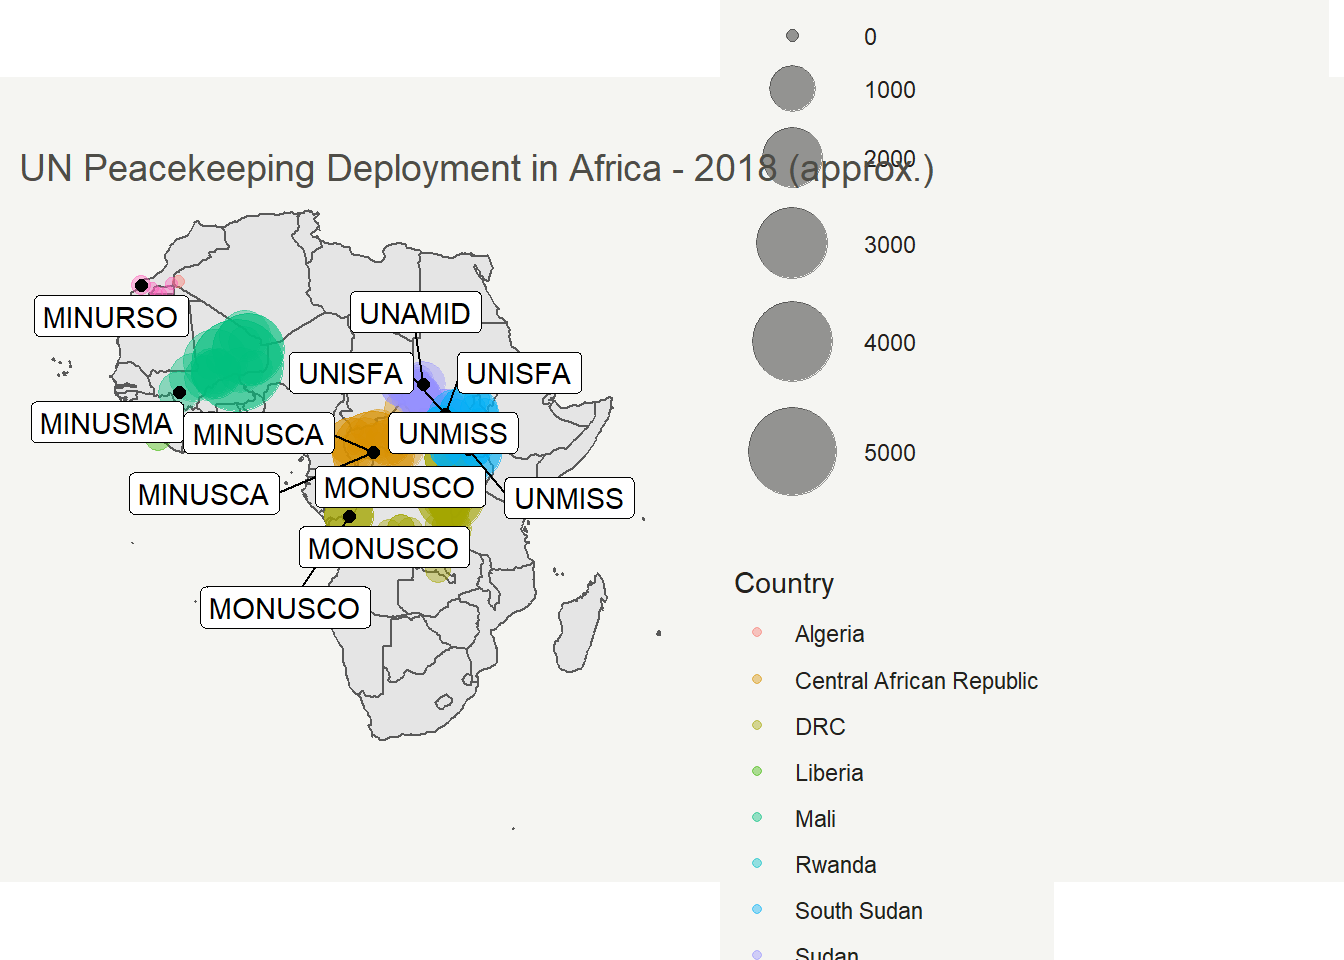
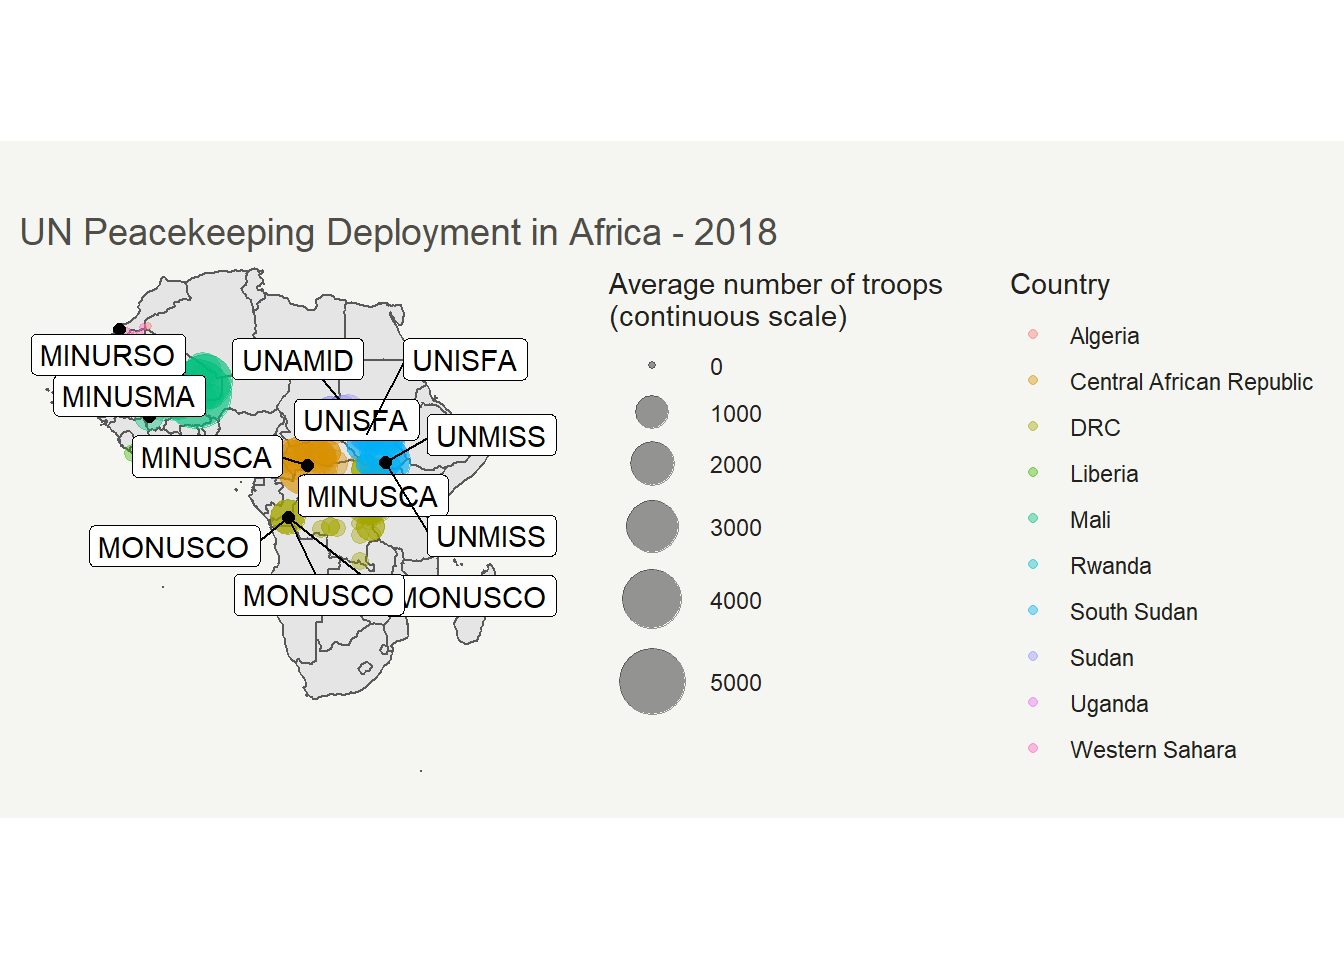
Build site.

diff --git a/docs/index.html b/docs/index.html
@@ -416,16 +416,16 @@ This reproducible <a href="http://rmarkdown.rstudio.com">R Markdown</a> analysis
 <div class="panel panel-default">
 <div class="panel-heading">
 <p class="panel-title">
-<a data-toggle="collapse" data-parent="#workflowr-checks" href="#strongRepositoryversionstrongahrefhttpsgithubcomhatnguyen267GeoPKOtreee863725fd19a593d37cc5deba4852cb6454b20d7targetblanke863725a"> <span class="glyphicon glyphicon-ok text-success" aria-hidden="true"></span> <strong>Repository version:</strong> <a href="https://github.com/hatnguyen267/GeoPKO/tree/e863725fd19a593d37cc5deba4852cb6454b20d7" target="_blank">e863725</a> </a>
+<a data-toggle="collapse" data-parent="#workflowr-checks" href="#strongRepositoryversionstrongahrefhttpsgithubcomhatnguyen267GeoPKOtreeb3d8755981830a8b96a975de8841f67322c48311targetblankb3d8755a"> <span class="glyphicon glyphicon-ok text-success" aria-hidden="true"></span> <strong>Repository version:</strong> <a href="https://github.com/hatnguyen267/GeoPKO/tree/b3d8755981830a8b96a975de8841f67322c48311" target="_blank">b3d8755</a> </a>
 </p>
 </div>
[2 lines of base64/hex data omitted]
 <div class="panel-body">
 <p>
 Great! You are using Git for version control. Tracking code development and connecting the code version to the results is critical for reproducibility.
 </p>
 <p>
-The results in this page were generated with repository version <a href="https://github.com/hatnguyen267/GeoPKO/tree/e863725fd19a593d37cc5deba4852cb6454b20d7" target="_blank">e863725</a>. See the <em>Past versions</em> tab to see a history of the changes made to the R Markdown and HTML files.
+The results in this page were generated with repository version <a href="https://github.com/hatnguyen267/GeoPKO/tree/b3d8755981830a8b96a975de8841f67322c48311" target="_blank">b3d8755</a>. See the <em>Past versions</em> tab to see a history of the changes made to the R Markdown and HTML files.
 </p>
 <p>
 Note that you need to be careful to ensure that all relevant files for the analysis have been committed to Git prior to generating the results (you can use <code>wflow_publish</code> or <code>wflow_git_commit</code>). workflowr only checks the R Markdown file, but you know if there are other scripts or data files that it depends on. Below is the status of the Git repository when the results were generated:
@@ -478,6 +478,40 @@ Message
 </tr>
 </thead>
 <tbody>
+<tr>
+<td>
+Rmd
+</td>
+<td>
+<a href="https://github.com/hatnguyen267/GeoPKO/blob/b3d8755981830a8b96a975de8841f67322c48311/analysis/index.Rmd" target="_blank">b3d8755</a>
+</td>
+<td>
+Nguyen Ha
+</td>
+<td>
+2020-07-08
+</td>
+<td>
+Adjusting graph output size
+</td>
+</tr>
+<tr>
+<td>
+html
+</td>
+<td>
+<a href="https://rawcdn.githack.com/hatnguyen267/GeoPKO/884b86f30c76e6c38fcd948c6af88893ada8b9c7/docs/index.html" target="_blank">884b86f</a>
+</td>
+<td>
+Nguyen Ha
+</td>
+<td>
+2020-07-08
+</td>
+<td>
+Build site.
+</td>
+</tr>
 <tr>
 <td>
 Rmd
@@ -2474,8 +2508,7 @@ p2 &lt;-  ggplot(data=Africa) + geom_sf() +
   guides( colour = guide_legend()) +
   geom_point(data = map2018df1 %&gt;% filter(HQ==3), aes (x=longitude, y=latitude), color = &quot;red&quot;, shape = 4, size=7)+
   geom_label_repel(data = map2018df1 %&gt;% filter(HQ==3), aes(x=longitude, y=latitude, label=Mission)) +
-  labs (title =&quot;UN Peacekeeping Deployment in Africa - 2018 (approx.)&quot;) +
-  labs(color=&#39;Average Troop Deployment&#39;) +
+  labs (title =&quot;UN Peacekeeping Deployment in Africa - 2018 (approx.)&quot;, color=&#39;Average Troop Deployment&#39;) +
   theme(
     text = element_text(color = &quot;#22211d&quot;),
     plot.background = element_rect(fill = &quot;#f5f5f2&quot;, color = NA), 
@@ -2498,9 +2531,9 @@ p2</code></pre>
                 aes(x=longitude, y=latitude), color=&quot;black&quot;, shape=16, size=2)+
     geom_label_repel(data=map2018df1 %&gt;% filter(HQ==3), 
                 aes(x=longitude, y=latitude, label=Mission))+
-    labs(title=&quot;UN Peacekeeping Deployment in Africa - 2018 (approx.)&quot;)+
-    scale_size(range = c(2, 16))+
-    labs(size=&quot;Average number of troops (continuous scale)&quot;,col=&quot;Country&quot;)+
+    labs(title=&quot;UN Peacekeeping Deployment in Africa - 2018&quot;)+
+    scale_size(range = c(1, 12))+
+    labs(size=&quot;Average number of troops \n(continuous scale)&quot;,col=&quot;Country&quot;)+
     theme(text = element_text(color = &quot;#22211d&quot;),
     plot.background = element_rect(fill = &quot;#f5f5f2&quot;, color = NA), 
     panel.background = element_rect(fill = &quot;#f5f5f2&quot;, color = NA), 
@@ -2510,10 +2543,12 @@ p2</code></pre>
     axis.title=element_blank(),
     axis.ticks=element_blank(),
     axis.text=element_blank(),
-    legend.key=element_blank()
+    legend.key=element_blank(),
+    legend.position=&quot;right&quot;,
+    legend.box=&quot;horizontal&quot;
   )
 p3</code></pre>
-<p><img src="figure/index.Rmd/unnamed-chunk-8-1.png" width="672" style="display: block; margin: auto;" /></p>
+<p><img src="figure/index.Rmd/unnamed-chunk-8-1.png" width="100%" style="display: block; margin: auto;" /></p>
 <p>How has this changed over the period covered by the dataset? For that, we attempted to make an animated graph. The first step is to prepare a dataframe, much similar to what has been done above for 2018. First we would calculate the average number of troops that is deployed to a location per mission per year.</p>
 <pre class="r"><code>gif_df &lt;- GeoPKO %&gt;% select(Mission, year, location, latitude, longitude, No.troops, HQ) %&gt;%
   group_by(Mission, year, location) %&gt;%
